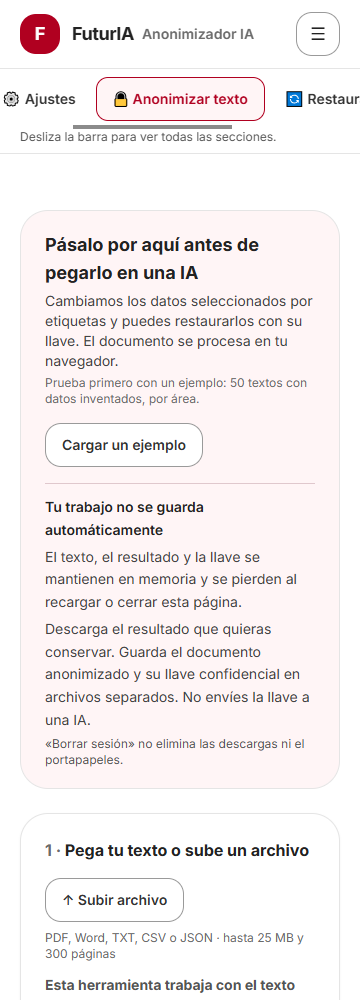
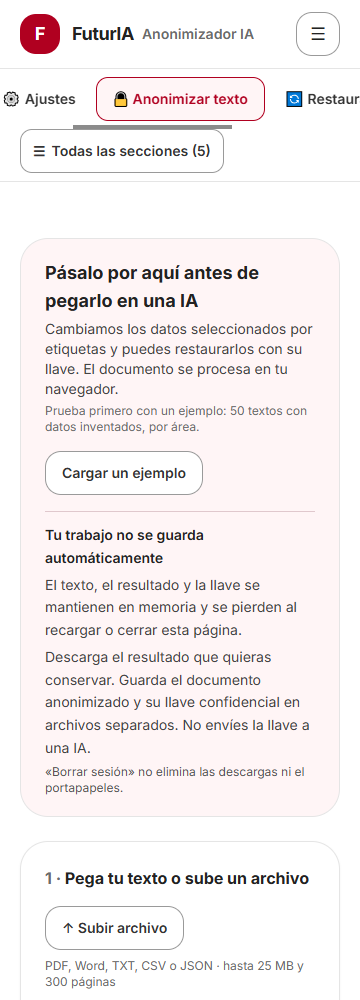
Defectos visuales de móvil cerrados y sondas que no se rompen con un icono
Revisión visual a 360 px sobre el sitio publicado. Verifiqué cada hallazgo
antes de tocar nada: el que decía que la cabecera fija ocupaba el 38% de la
pantalla medía en realidad 20%, así que la cabecera queda como estaba.

Los demás eran reales:
- 🪪 no existe en las fuentes de Windows ni Android y salía un cuadro vacío
  junto al dato procesado. Comprobado midiendo el ancho del glifo contra el
  del carácter tofu; ahora 🆔, con prueba que veta los emoji de Unicode 14.
- break-all partía los datos a mitad de palabra en la tabla de equivalencias:
  una IP se leía «192.16 / 8.1.44», que parece un dato corrupto. Ahora
  overflow-wrap: anywhere, que quiebra solo cuando no cabe.
- A 360 px solo caben 2 de las 5 secciones y la única pista era un texto gris
  de 12 px pidiendo deslizar. Añadido un menú «Todas las secciones (5)».
- «Ver original y resultado» y «Ver como documento» no tenían borde ni fondo:
  se leían como subtítulos, no como controles.
- El «?» de la tabla no se explicaba; ahora dice que el dígito de control no
  cuadra y que el dato se oculta igual.

Y el motivo de tres falsas alarmas de la suite: las sondas emparejaban los
botones por texto exacto, así que un icono nuevo las rompía. Ahora normalizan
los dos lados (adorno inicial y espacios), de modo que «← Cerrar» y
«⛶ Ver como documento» siguen encontrándose. La sonda de navegación afirma el
invariante —todas las secciones alcanzables sin descubrir el gesto— en vez de
la existencia de un párrafo concreto.
[…]

diff --git a/index.html b/index.html
@@ -216,7 +216,7 @@ const CATS = [
     id: 'fiscal', short: 'Identificaciones',
     label: 'Identificación personal y fiscal (Hispanoamérica + USA)',
     ex: 'Cédula, DNI, CURP, RFC, RUT, CUIT, NIT, RUC, DUI, DPI, RNC, SSN, pasaporte…',
-    color: '#9f1239', bg: '#fff1f2', border: '#fecdd3', tag: 'ID_FISCAL', icon: '🪪',
+    color: '#9f1239', bg: '#fff1f2', border: '#fecdd3', tag: 'ID_FISCAL', icon: '🆔',
     on: true,
     pats: [
       // México — CURP (18) y RFC (12-13); siempre en mayúsculas en documentos
@@ -4076,8 +4076,8 @@ function WorkTab({ setLastResult, lastResult, settings, onOpenSettings }) {
                 <span className="text-sm text-[#6b6b6b]"><strong className="text-[#222222]">{totalDetected}</strong> datos ocultados · <strong className="text-[#222222]">{byCategory.length}</strong> tipos</span>
               </div>
               <div className="flex items-center gap-3 flex-wrap text-sm">
-                <button type="button" onClick={() => setShowOriginal(v => !v)} aria-expanded={showOriginal} className="font-semibold text-[#333333] underline-offset-2 hover:underline">{showOriginal ? 'Ocultar el original' : 'Ver original y resultado'}</button>
-                <button type="button" onClick={openViewer} className="font-semibold text-[#333333] underline-offset-2 hover:underline">Ver como documento</button>
+                <button type="button" onClick={() => setShowOriginal(v => !v)} aria-expanded={showOriginal} className="inline-flex items-center gap-1.5 rounded-lg border border-[#c9c9c9] bg-white px-3 py-1.5 font-semibold text-[#333333] hover:border-[#8a8a8a] hover:bg-[#f5f5f5]"><span aria-hidden="true">⇄</span>{showOriginal ? 'Ocultar el original' : 'Ver original y resultado'}</button>
+                <button type="button" onClick={openViewer} className="inline-flex items-center gap-1.5 rounded-lg border border-[#c9c9c9] bg-white px-3 py-1.5 font-semibold text-[#333333] hover:border-[#8a8a8a] hover:bg-[#f5f5f5]"><span aria-hidden="true">⛶</span>Ver como documento</button>
               </div>
             </div>
             {byCategory.length > 0 ? (
@@ -4103,7 +4103,7 @@ function WorkTab({ setLastResult, lastResult, settings, onOpenSettings }) {
             ) : (
               <div className="rounded-2xl border border-[#e5e5e5] bg-[#fafafa] p-4 overflow-x-auto"><HighlightedOutput text={result.out} reps={result.reps} cats={allCats} onExclude={excludeFromResult} /></div>
             )}
-            <p className="mt-2 text-xs text-[#6b6b6b]">Toca una etiqueta para ver el dato original o dejarlo visible. El ✓ indica que el número de identificación o cuenta es válido.</p>
+            <p className="mt-2 text-xs text-[#6b6b6b]">Toca una etiqueta para ver el dato original o dejarlo visible. El <span className="text-[#15803d]">✓</span> indica que el número de identificación o cuenta es válido; el <span className="text-[#b45309]">?</span>, que tiene esa forma pero su dígito de control no cuadra (se oculta igual).</p>
             <form className="mt-3 flex flex-wrap items-center gap-2" onSubmit={e => { e.preventDefault(); addExtraTerm(); }}>
               <label htmlFor="extra-term" className="text-sm font-semibold text-[#222222]">¿Se escapó algo? Ocultar también:</label>
               <input id="extra-term" type="text" value={extraTerm} onChange={e => setExtraTerm(e.target.value)} placeholder="Ej.: Proyecto Orión"
@@ -4149,7 +4149,7 @@ function WorkTab({ setLastResult, lastResult, settings, onOpenSettings }) {
                       return (
                         <tr key={i} className="border-b border-[#e5e5e5] last:border-0">
                           <td className="py-2 pr-4"><mark className="anon font-mono text-xs px-1.5 py-0.5 rounded" style={{ backgroundColor: cat ? cat.bg : '#f5f5f5', color: cat ? cat.color : '#333', border: '1.5px solid ' + (cat ? cat.color : '#9a9a9a') }}>{r.replacement}</mark></td>
-                          <td className="py-2 pr-4 font-mono text-xs text-[#333333] break-all">{r.original}{r.valid === true ? <span className="ml-1 text-[#15803d]" title="Número verificado: el dígito de control es correcto">✓</span> : r.valid === false ? <span className="ml-1 text-[#b45309]" title="Tiene forma de identificación, pero el dígito de control no cuadra">?</span> : null}</td>
+                          <td className="py-2 pr-4 font-mono text-xs text-[#333333] [overflow-wrap:anywhere]">{r.original}{r.valid === true ? <span className="ml-1 text-[#15803d]" title="Número verificado: el dígito de control es correcto">✓</span> : r.valid === false ? <span className="ml-1 text-[#b45309]" title="Tiene forma de identificación, pero el dígito de control no cuadra">?</span> : null}</td>
                           <td className="py-2 pr-4 text-xs text-[#6b6b6b]">{r.count || 1}</td>
                           <td className="py-2 text-xs text-[#6b6b6b]">{(cat && cat.short) || r.catLabel}{r.hint ? ' · rango ' + r.hint : ''}</td>
                         </tr>
@@ -4379,6 +4379,9 @@ function App() {
   const [sessionKey, setSessionKey] = useState(0);
   const settings = useSettings();
   const [menuOpen, setMenuOpen] = useState(false);
+  // En móvil solo caben dos pestañas de cinco; este menú da acceso explícito
+  // a todas sin depender de que el usuario descubra el gesto de deslizar.
+  const [sectionsOpen, setSectionsOpen] = useState(false);
   const dialogs = useDialog();
   const clearSession = async () => {
     if (!(await dialogs.confirm('¿Borrar el contenido y la llave de esta sesión? No elimina archivos descargados ni el portapapeles.', { ok: 'Borrar sesión', danger: true }))) return;
@@ -4451,7 +4454,24 @@ function App() {
             </button>
           ))}
         </div>
-        <p id="tabs-mobile-help" className="px-5 pb-2 text-xs text-[#555555] sm:hidden">Desliza la barra para ver todas las secciones.</p>
+        <div className="relative px-5 pb-2 sm:hidden">
+          <button type="button" data-tab-menu aria-expanded={sectionsOpen} aria-haspopup="menu" aria-label="Ver todas las secciones"
+            onClick={() => setSectionsOpen(v => !v)}
+            className="inline-flex min-h-[44px] items-center gap-1.5 rounded-xl border border-[#9a9a9a] bg-white px-3 text-sm font-semibold text-[#333333]">
+            <span aria-hidden="true">☰</span>Todas las secciones ({TABS.length})
+          </button>
+          {sectionsOpen ? (
+            <div role="menu" className="absolute left-5 right-5 top-14 z-50 rounded-2xl border border-[#9a9a9a] bg-white p-2 shadow-xl">
+              {TABS.map(t => (
+                <button key={t.id} role="menuitem" type="button" onClick={() => { setTab(t.id); setSectionsOpen(false); }}
+                  className={cn("block min-h-[44px] w-full rounded-xl px-3 text-left text-sm font-semibold hover:bg-[#fff5f6]",
+                    tab === t.id ? "bg-[#fff5f6] text-[#b00020]" : "text-[#333333]")}>
+                  {t.label}{tab === t.id ? ' ✓' : ''}
+                </button>
+              ))}
+            </div>
+          ) : null}
+        </div>
       </nav>
       </div>
 
